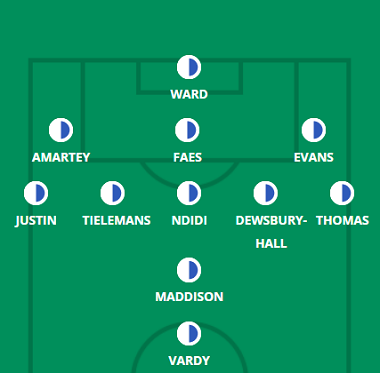
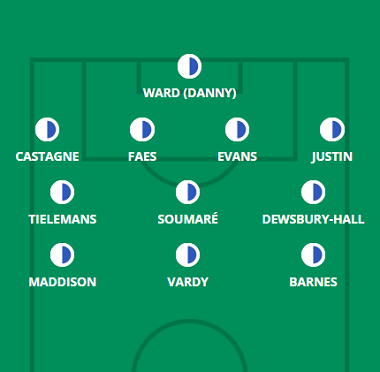
brighton, leeds e leicester

diff --git a/leeds.html b/leeds.html
@@ -68,7 +68,7 @@
             <hgroup>
                 <h1> Provável Escalação</h1>
                 <h2 class="direita"> por FabioVascão </h2>
-                <h3 class="direita"> Atualizado em 29/Setembro/2022 </h3>
+                <h3 class="direita"> Atualizado em 30/Setembro/2022 </h3>
             </hgroup>
     
             <h2 class="time"> <img src="_fotos/_logos/logoleeds.png" />Leeds</h2>
@@ -77,9 +77,9 @@
                     <img src="_fotos/_dinamicas/leeds.png" />
                 </figure>
             </aside>
-                <div class="escalacao"><h2 class="titulo">Ultimas Notícias</h2> <h4><p>Mais informações em breve.</p></h4><br>
-                    <h4><strong>Jogadores fora da próxima partida:</strong> Dallas e Rodrigo</h4><br><br>
-                    <h4><strong>Jogadores dúvidas:</strong> Ayling, Cooper e Firpo</h4>
+                <div class="escalacao"><h2 class="titulo">Ultimas Notícias</h2> <h4><p>Stuart Dallas (lesão no joelho), Archie Gray (lesão no pé) e Adam Forshaw (lesão no tornozelo) são os únicos jogadores confirmados como ausentes para a visita do Aston Villa, com Rodrigo Moreno e Junior Firpo entre os jogadores que se recuperaram totalmente desde que o Leeds foi o último em ação há um mês. Jesse Marsch realmente reconheceu que finalmente teve algumas dores de cabeça genuínas na seleção para pensar depois de um mês de estreia afetado por lesões limitar suas opções. Liam Cooper é um dos favoritos para voltar direto para o time depois que Diego Llorente, propenso a erros, teve outro jogo ruim em Brentford, enquanto a participação positiva de Luke Ayling na 6° Rodada e a forma mista de Rasmus Kristensen podem ser suficientes para ver uma mudança no guarda na lateral direita. Pascal Struijk provavelmente fez o suficiente para derrotar Firpo na lateral-esquerda por enquanto, no entanto, enquanto os cinco do meio-campo provavelmente permanecerão inalterados, exceto por problemas físicos não declarados. Joe Gelhardt parece pronto para deixar o papel de atacante central com Rodrigo recém-disponível e Patrick Bamford em forma, com este último o favorito para obter a indicação depois de melhorar sua forma de jogo com participações especiais nos últimos dois jogos da liga e ao marcar um hat-trick durante uma recente eliminatória com os sub-21. Marsch agora tem muitas opções no ataque depois de admitir que a contratação do adolescente Willy Gnonto, que jogou duas vezes pela Itália durante o intervalo internacional, o impressionou a ponto de estar envolvido na equipe da rodada neste fim de semana.</p></h4><br>
+                    <h4><strong>Jogadores fora da próxima partida:</strong> Dallas, Raphinha, Forshaw e Gray</h4><br><br>
+                    <h4><strong>Jogadores dúvidas:</strong> </h4>
                 </div> 
         </header>
         </article>

diff --git a/leicester.html b/leicester.html
@@ -68,7 +68,7 @@
             <hgroup>
                 <h1> Provável Escalação</h1>
                 <h2 class="direita"> por FabioVascão </h2>
-                <h3 class="direita"> Atualizado em 29/Setembro/2022 </h3>
+                <h3 class="direita"> Atualizado em 30/Setembro/2022 </h3>
             </hgroup>
     
             <h2 class="time"> <img src="_fotos/_logos/logoleicester.png" />Leicester</h2>
@@ -77,9 +77,9 @@
                     <img src="_fotos/_dinamicas/leicester.png" />
                 </figure>
             </aside>
-                <div class="escalacao"><h2 class="titulo">Ultimas Notícias</h2> <h4><p>Mais informações em breve.</p></h4><br>
+                <div class="escalacao"><h2 class="titulo">Ultimas Notícias</h2> <h4><p>Ryan Bertrand (lesão no joelho) e Ricardo Pereira (lesão no tendão de aquiles) permanecem de fora, mas o Leicester não tem muitas preocupações, com Dennis Praet (lesão no pé) em forma e Wilfred Ndidi "esperançosamente" capaz de se livrar de uma lesão no tendão que forçou sua saída do a seleção da Nigéria na última quinzena. Dada a falta de atualização sobre Patson Daka, também estamos assumindo que o atacante se recuperou da pancada que o obrigou a sair da equipe da Zâmbia e o hospitalizou brevemente há uma semana. Apesar da goleada de 6 a 2 no Spurs há duas semanas, há todas as chances de vermos o mesmo goleiro e quatro zagueiros entrarem em campo na noite de segunda-feira. Brendan Rodgers apoiou Danny Ward para "encontrar um nível mais alto" e enfatizou que a defesa foi um esforço de equipe no presser de sexta-feira, enquanto há apenas o lateral-esquerdo Luke Thomas que ameaçaria realisticamente os quatro atuais, considerando que Caglar Soyuncu e Jannik Vestergaard está completamente fora do ar e que Daniel Amartey fracassou no início da campanha. Há mais opções mais à frente, com Boubakary Soumare - que teve o azar de ser colocado no banco em primeiro lugar na 8ª rodada - potencialmente convocado para o meio-campo, mesmo que Ndidi esteja em forma. Daka mereceu seu lugar no time titular nos últimos dois jogos da liga, mas devido à sua doença de intervalo internacional e ao amor eterno de Rodgers por Jamie Vardy, não se surpreenda com a tentativa do técnico do Leicester de jogar o atacante veterano em alguma forma contra um dos as piores defesas da divisão na noite de segunda-feira.</p></h4><br>
                     <h4><strong>Jogadores fora da próxima partida:</strong> Ricardo Pereira e Bertrand</h4><br><br>
-                    <h4><strong>Jogadores dúvidas:</strong> Praet</h4>
+                    <h4><strong>Jogadores dúvidas:</strong> Daka e Ndidi</h4>
                 </div> 
         </header>
         </article>

diff --git a/brighton.html b/brighton.html
@@ -68,7 +68,7 @@
             <hgroup>
                 <h1> Provável Escalação</h1>
                 <h2 class="direita"> por FabioVascão </h2>
-                <h3 class="direita"> Atualizado em 29/Setembro/2022 </h3>
+                <h3 class="direita"> Atualizado em 30/Setembro/2022 </h3>
             </hgroup>
     
             <h2 class="time"> <img src="_fotos/_logos/logobrighton.png" />Brighton</h2>
@@ -77,10 +77,9 @@
                     <img src="_fotos/_dinamicas/brighton.png" />
                 </figure>
             </aside>
-                <div class="escalacao"><h2 class="titulo">Ultimas Notícias</h2> <h4><p>Mais informações em breve.</p></h4><br>
-                    <h4><strong>Jogadores fora da próxima partida:</strong> Lallana e Moder
-                    </h4><br><br>
-                    <h4><strong>Jogadores dúvidas:</strong> Sarmiento</h4>
+                <div class="escalacao"><h2 class="titulo">Ultimas Notícias</h2> <h4><p>Roberto De Zerbi confirmou que apenas Jakub Moder (lesão no joelho) e Enock Mwepu (gripe) estavam fora da partida de sábado em Anfield, embora o novo chefe do Brighton tenha acrescentado que Adam Lallana (lesão na panturrilha) e Tariq Lamptey (lesão múscular) não são esperados estar apto o suficiente para começar. De Zerbi favoreceu muito uma configuração de 4-2-3-1 em empregos anteriores, mas deu a entender que ele não teve tempo suficiente para transmitir novas idéias táticas com seu time ausente em serviço internacional, então podemos ver o 3-5-2/3-4-2-1 em ação novamente neste fim de semana. Da mesma forma, na frente de pessoal, ele certamente não vai querer dissolver um time estabelecido que está em quarto lugar na tabela da Premier League antes da 9ª rodada. A versatilidade de Joel Veltman pelo menos significa que ele pode simplesmente mudar para lateral-direito se De Zerbi quer prosseguir com um quatro de volta, mantendo a interrupção ao mínimo. Todos exceto Pervis Estupinan e Danny Welbeck deste previsto XI são titulares sempre presentes nesta temporada, mas mesmo Welbeck se tornou o atacante indiscutível de primeira escolha de Albion quando Graham Potter partiu para o Chelsea. Jogadores como Kaoru Mitoma, Billy Gilmour, Denis Undav, Levi Colwill e Julio Enciso esperam ter mais chances sob seu novo gerente do que tiveram no mês de abertura, mas podem ter que ser pacientes por enquanto.</p></h4><br>
+                    <h4><strong>Jogadores fora da próxima partida:</strong> Mwepu e Moder</h4><br><br>
+                    <h4><strong>Jogadores dúvidas:</strong> </h4>
                 </div> 
         </header>
         </article>
